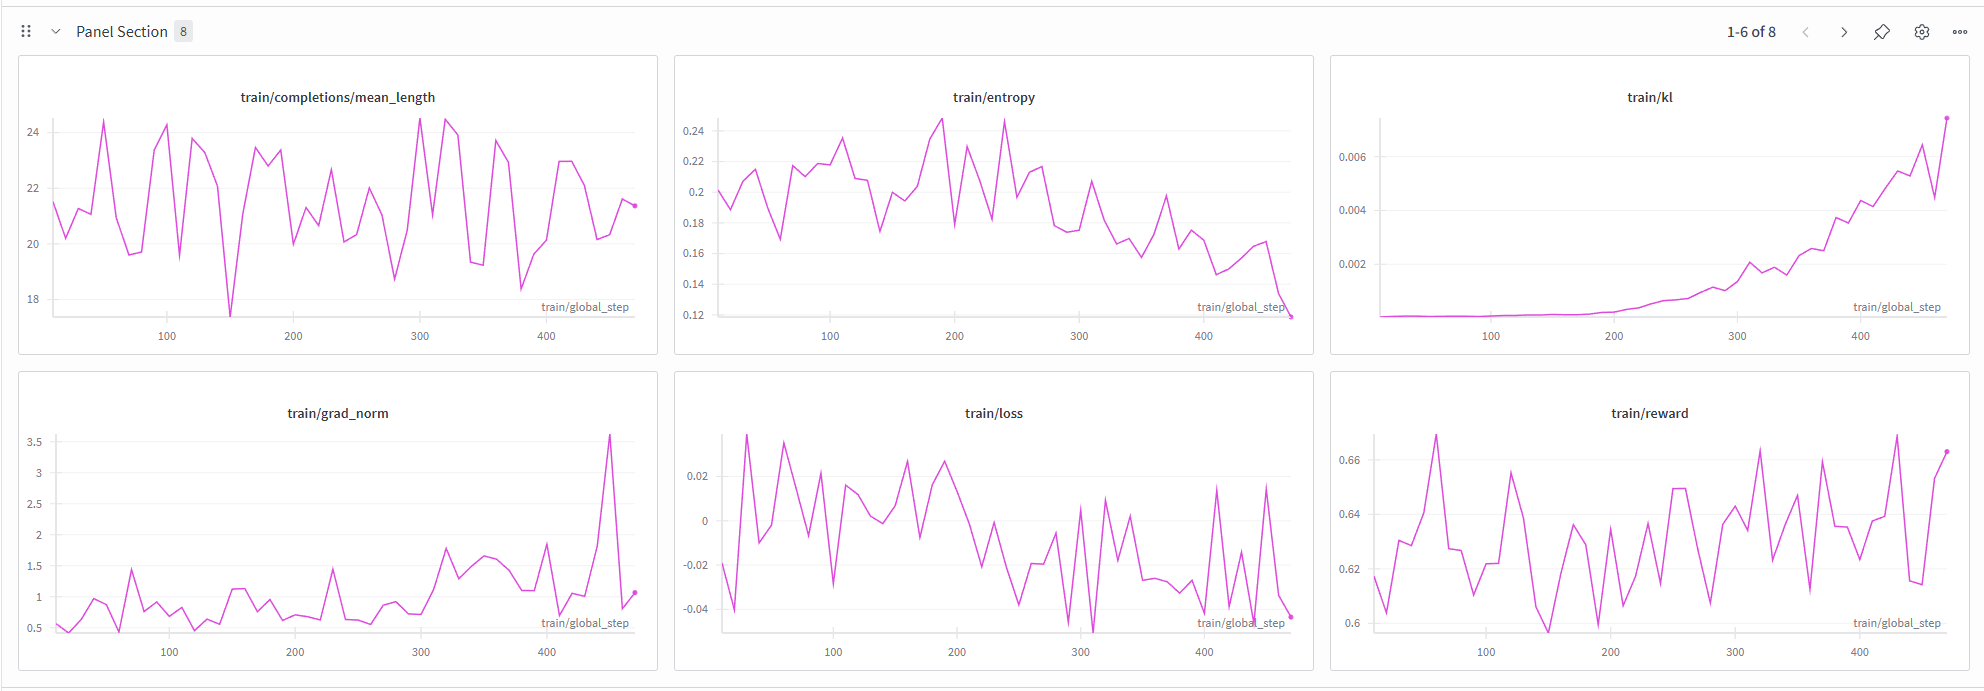
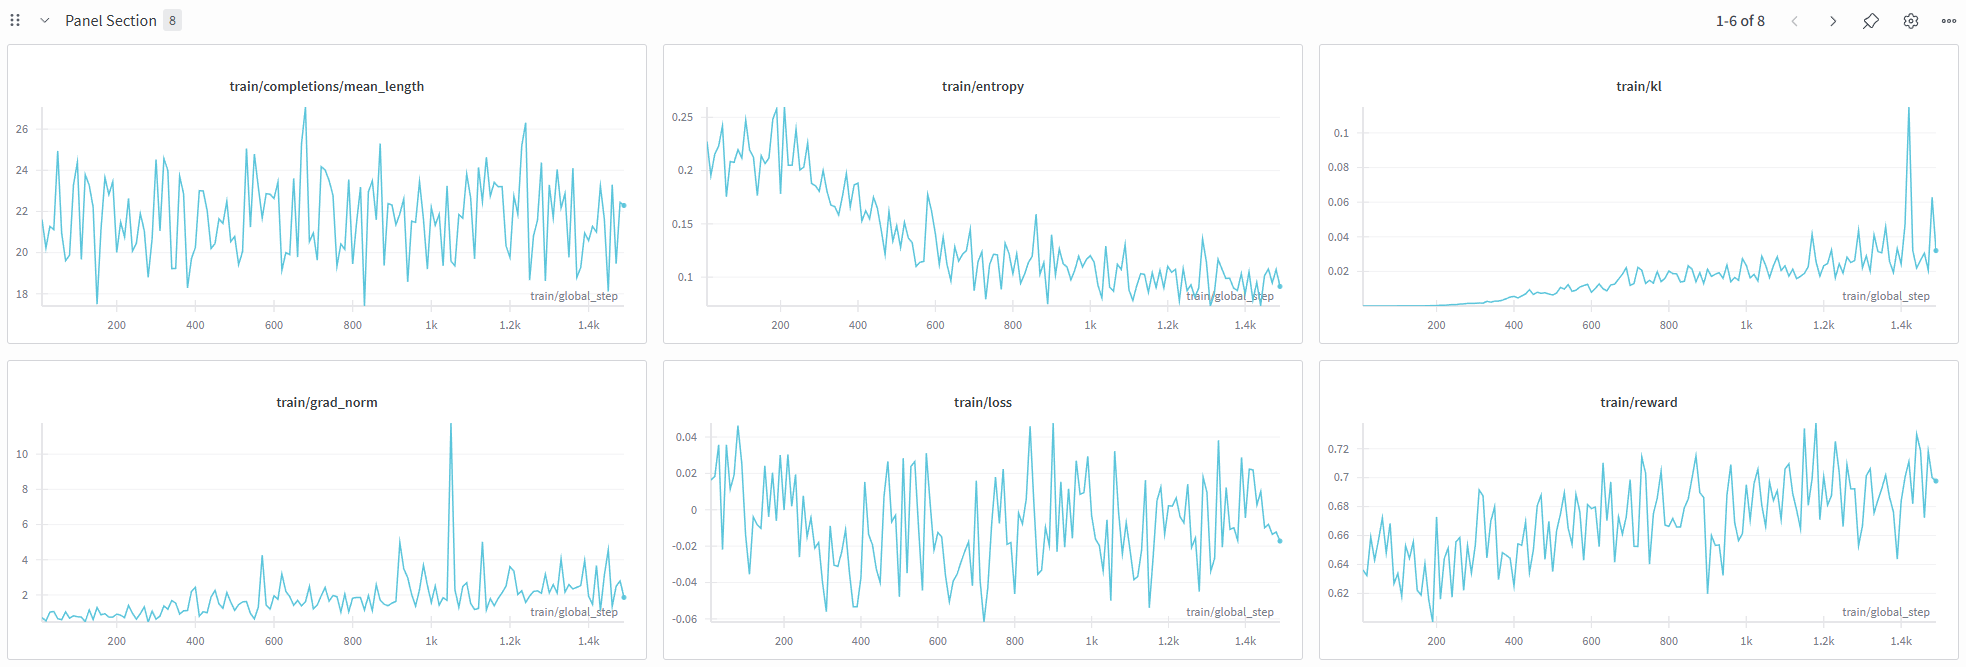
gain_epsilon

diff --git a/src/gec/rewards.py b/src/gec/rewards.py
@@ -1,4 +1,3 @@
-from difflib import SequenceMatcher
 from pathlib import Path
 import sys
 
@@ -30,6 +29,7 @@ class GECRewardModel:
         greco_weight: float = 0.6,
         semantic_weight: float = 0.3,
         laziness_weight: float = 0.1,
+        gain_epsilon: float = 0.02,
         device: str = "cuda",
     ):
         self.device = torch.device(device if torch.cuda.is_available() else "cpu")
@@ -53,6 +53,7 @@ class GECRewardModel:
         self.greco_weight = greco_weight
         self.semantic_weight = semantic_weight
         self.laziness_weight = laziness_weight
+        self.gain_epsilon = gain_epsilon
 
     def compute_greco_scores(
         self, sources: list[str], hypotheses: list[str]
@@ -101,7 +102,8 @@ class GECRewardModel:
         Reward = greco_weight * GRECO_GAIN + semantic_weight * similarity - edit_weight * conditional_penalty
 
         Where GRECO_GAIN = GRECO(hypothesis) - GRECO(source)
-        Edit penalty only applies when gain <= 0 (edits that don't improve quality).
+        Small gains below gain_epsilon are treated as no improvement to avoid GRECO noise.
+        Edit penalty only applies when gain <= gain_epsilon (edits that don't improve quality).
         """
         # Cache source GRECO per unique source (same source has N completions in GRPO)
         unique_sources = list(dict.fromkeys(sources))
@@ -115,20 +117,32 @@ class GECRewardModel:
         semantic_scores = self.compute_semantic_similarity(sources, hypotheses)
         edit_penalties = self.compute_edit_penalty(sources, hypotheses)
 
-        # Only penalize edits that don't meaningfully improve quality (gain <= epsilon)
-        # Small epsilon accounts for GRECO noise on minor edits
+        improved = greco_gain > self.gain_epsilon
+        effective_gain = torch.where(improved, greco_gain, torch.zeros_like(greco_gain))
+        non_improving_edits = (edit_penalties > 0) & (~improved)
+        semantic_scores = torch.where(
+            non_improving_edits,
+            torch.zeros_like(semantic_scores),
+            semantic_scores,
+        )
         conditional_penalties = torch.where(
-            greco_gain <= 0.01, edit_penalties, torch.zeros_like(edit_penalties)
+            non_improving_edits, edit_penalties, torch.zeros_like(edit_penalties)
         )
 
         rewards = (
-            self.greco_weight * greco_gain
+            self.greco_weight * effective_gain
             + self.semantic_weight * semantic_scores
             - self.laziness_weight * conditional_penalties
         )
 
         # Log first 3 samples for debugging
-        print(f"[Reward] SrcGRECO: {source_greco[:3].tolist()}, HypGRECO: {hyp_greco[:3].tolist()}, Gain: {greco_gain[:3].tolist()}, Semantic: {semantic_scores[:3].tolist()}, EditPen: {conditional_penalties[:3].tolist()}, Final: {rewards[:3].tolist()}")
+        print(
+            "[Reward] SrcGRECO: "
+            f"{source_greco[:3].tolist()}, HypGRECO: {hyp_greco[:3].tolist()}, "
+            f"Gain: {greco_gain[:3].tolist()}, EffGain: {effective_gain[:3].tolist()}, "
+            f"Semantic: {semantic_scores[:3].tolist()}, "
+            f"EditPen: {conditional_penalties[:3].tolist()}, Final: {rewards[:3].tolist()}"
+        )
 
         return rewards.tolist()
 

diff --git a/src/gec/fine_tune.py b/src/gec/fine_tune.py
@@ -90,6 +90,7 @@ def run_fine_tune(config: GECConfig, local: bool = False) -> None:
         greco_weight=config.greco_weight,
         semantic_weight=config.semantic_weight,
         laziness_weight=config.laziness_weight,
+        gain_epsilon=config.gain_epsilon,
     )
     reward_func = build_gec_reward_func(reward_model)
 

diff --git a/src/gec/config.py b/src/gec/config.py
@@ -46,6 +46,7 @@ class GECConfig(BaseSettings):
     greco_weight: float = 0.6
     semantic_weight: float = 0.3
     laziness_weight: float = 0.1
+    gain_epsilon: float = 0.02
 
     # Reward model paths
     greco_model_name: str = "mrqorib/grammaticality"
